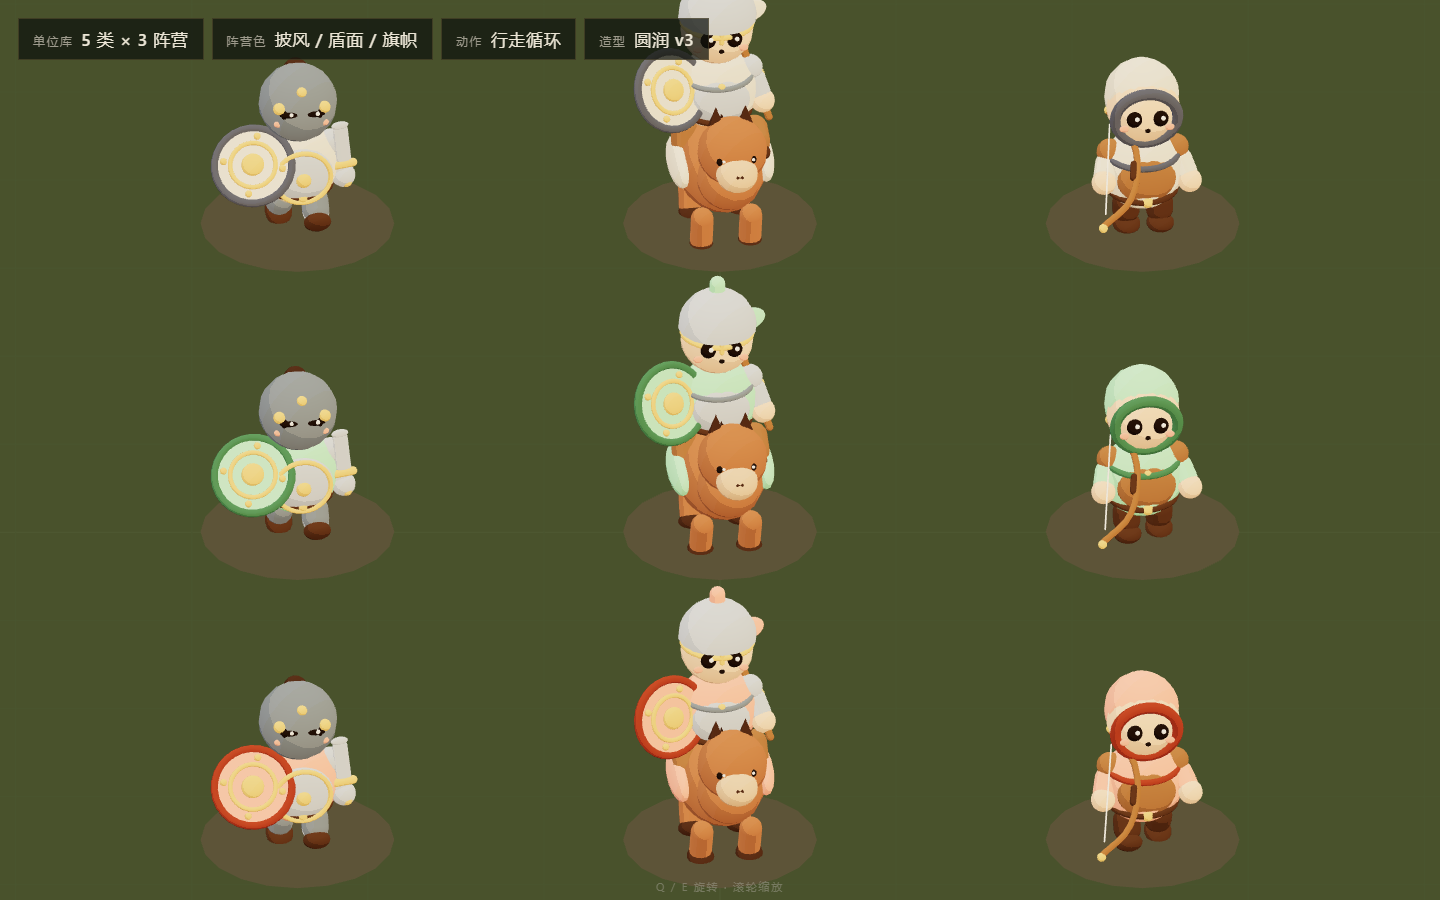
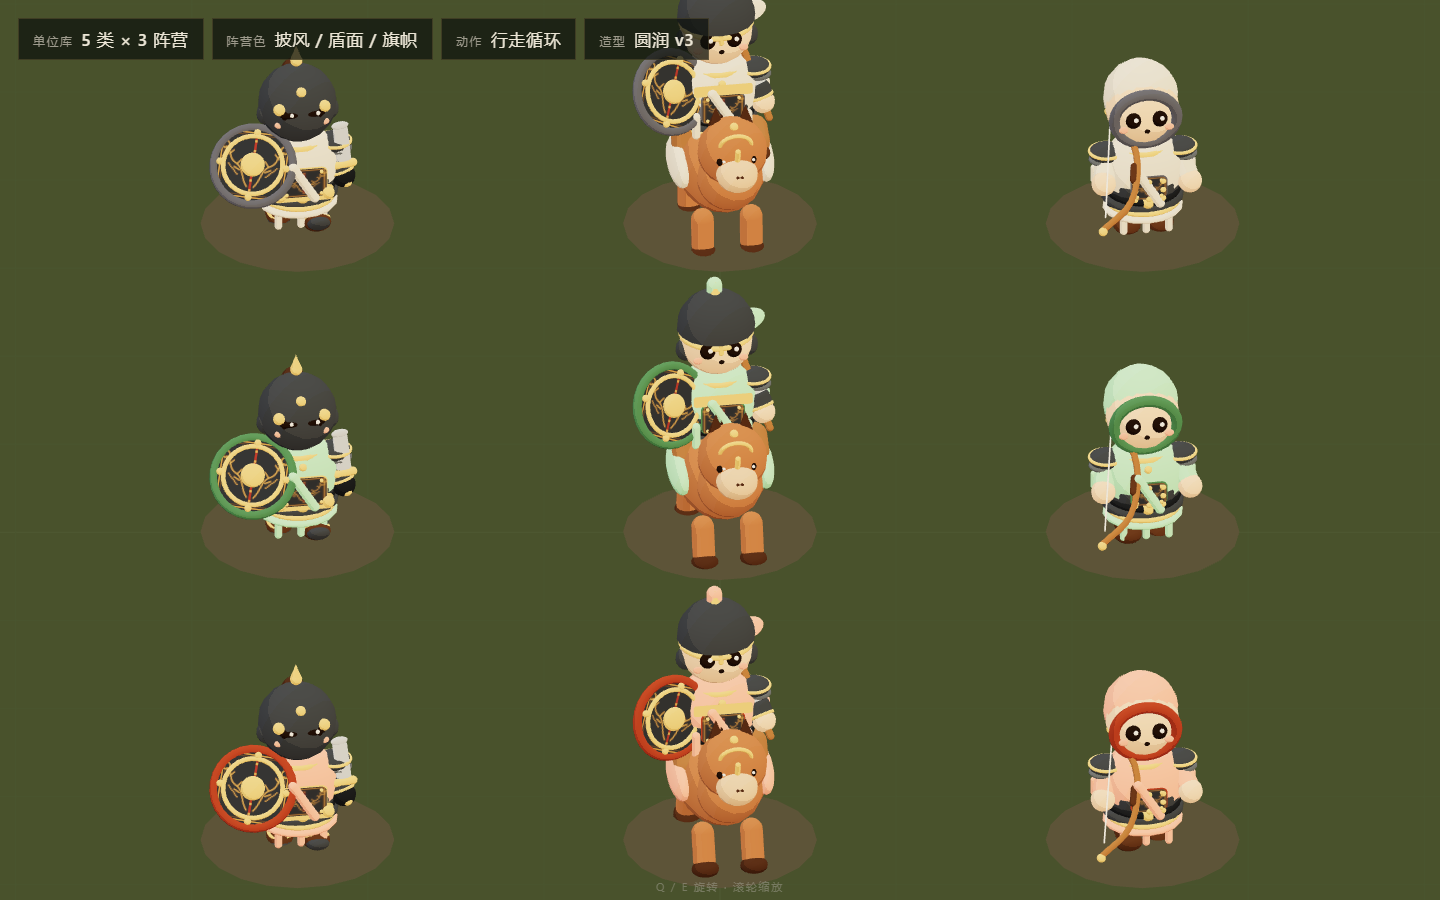
单位增加黑铁金纹铠甲

diff --git a/apps/client/src/game/unit-models.ts b/apps/client/src/game/unit-models.ts
@@ -15,11 +15,11 @@ export const UNIT_NAMES: Record<UnitKind, string> = {
 };
 
 export const UNIT_DESCRIPTIONS: Record<UnitKind, string> = {
-  infantry: "单刀 · 皮甲",
+  infantry: "单刀 · 札甲",
   shield: "重甲 · 大盾",
   cavalry: "长枪 · 战马",
-  archer: "弓箭 · 兜帽",
-  elite: "轻甲 · 羽饰",
+  archer: "弓箭 · 轻甲",
+  elite: "精甲 · 羽饰",
 };
 
 const GRADIENT = (() => {
@@ -55,6 +55,82 @@ const HORSE_DARK = paint(0x4c3323);
 const WHITE = paint(0xf6efdf);
 const INK = paint(0x2a1e17);
 const BLUSH = paint(0xeea08b);
+const ARMOR = paint(0x3f454d);
+const ARMOR_EDGE = paint(0x24282e);
+const ARMOR_LIGHT = paint(0x59616a);
+
+let ARMOR_MAP: THREE.CanvasTexture | null = null;
+
+function armorMap(): THREE.CanvasTexture {
+  if (ARMOR_MAP) return ARMOR_MAP;
+  const canvas = document.createElement("canvas");
+  canvas.width = 256;
+  canvas.height = 256;
+  const context = canvas.getContext("2d");
+  if (context) {
+    context.fillStyle = "#343941";
+    context.fillRect(0, 0, 256, 256);
+    context.strokeStyle = "#b3883f";
+    context.lineWidth = 4;
+    context.strokeRect(10, 10, 236, 236);
+    context.strokeStyle = "#7b5a24";
+    context.lineWidth = 1.5;
+    context.strokeRect(18, 18, 220, 220);
+    context.strokeStyle = "#c39a4b";
+    context.fillStyle = "#c39a4b";
+    context.lineCap = "round";
+    for (const side of [-1, 1]) {
+      context.save();
+      context.translate(128, 0);
+      context.scale(side, 1);
+      context.lineWidth = 3.4;
+      context.beginPath();
+      context.moveTo(12, 208);
+      context.bezierCurveTo(38, 176, 30, 142, 62, 126);
+      context.bezierCurveTo(92, 112, 78, 82, 104, 70);
+      context.stroke();
+      context.beginPath();
+      context.arc(106, 62, 13, 0, Math.PI * 2);
+      context.stroke();
+      context.beginPath();
+      context.moveTo(112, 50);
+      context.lineTo(124, 38);
+      context.moveTo(118, 48);
+      context.lineTo(132, 48);
+      context.moveTo(110, 50);
+      context.lineTo(104, 34);
+      context.stroke();
+      context.beginPath();
+      context.moveTo(56, 128);
+      context.lineTo(42, 110);
+      context.moveTo(66, 140);
+      context.lineTo(46, 150);
+      context.moveTo(88, 96);
+      context.lineTo(74, 80);
+      context.stroke();
+      for (let index = 0; index < 8; index += 1) {
+        context.beginPath();
+        context.arc(52 + index * 5, 166 - index * 5, 2.2, 0, Math.PI * 2);
+        context.fill();
+      }
+      context.restore();
+    }
+    context.fillStyle = "#8e3a32";
+    context.fillRect(124, 30, 8, 196);
+    context.fillStyle = "#c39a4b";
+    for (const y of [40, 76, 112, 148, 184, 220]) {
+      context.beginPath();
+      context.arc(128, y, 4, 0, Math.PI * 2);
+      context.fill();
+    }
+  }
+  const texture = new THREE.CanvasTexture(canvas);
+  texture.colorSpace = THREE.SRGBColorSpace;
+  ARMOR_MAP = texture;
+  return texture;
+}
+
+const ARMOR_PLATE = new THREE.MeshToonMaterial({ map: armorMap(), gradientMap: GRADIENT });
 
 const HIP_Y = 0.19;
 const SHOULDER_Y = 0.25;
@@ -169,41 +245,104 @@ function roundedPanel(
   builder.add(geometry, material, new THREE.Vector3(x, y, z));
 }
 
+function texturedPanel(
+  builder: ModelBuilder,
+  width: number,
+  height: number,
+  radius: number,
+  material: THREE.Material,
+  x: number,
+  y: number,
+  z: number,
+): void {
+  const shape = new THREE.Shape();
+  const w = width / 2;
+  const h = height / 2;
+  shape.moveTo(-w + radius, -h);
+  shape.lineTo(w - radius, -h);
+  shape.quadraticCurveTo(w, -h, w, -h + radius);
+  shape.lineTo(w, h - radius);
+  shape.quadraticCurveTo(w, h, w - radius, h);
+  shape.lineTo(-w + radius, h);
+  shape.quadraticCurveTo(-w, h, -w, h - radius);
+  shape.lineTo(-w, -h + radius);
+  shape.quadraticCurveTo(-w, -h, -w + radius, -h);
+  shape.closePath();
+  const geometry = new THREE.ShapeGeometry(shape, 16);
+  geometry.computeBoundingBox();
+  const box = geometry.boundingBox;
+  const uv = geometry.attributes.uv;
+  const position = geometry.attributes.position;
+  if (box && uv) {
+    for (let index = 0; index < uv.count; index += 1) {
+      uv.setXY(
+        index,
+        (position.getX(index) - box.min.x) / (box.max.x - box.min.x),
+        (position.getY(index) - box.min.y) / (box.max.y - box.min.y),
+      );
+    }
+  }
+  builder.add(geometry, material, new THREE.Vector3(x, y, z));
+}
+
 function makeTorso(kind: UnitKind, palette: TeamPalette, variant: number): THREE.Group {
   const team = paintTeam(palette);
   const trim = paintTrim(palette);
-  const armor = kind === "shield" || kind === "cavalry" ? STEEL : kind === "elite" ? DARK_STEEL : LEATHER;
   return part((b) => {
     ball(b, 0.22, 1.08, 1.12, 0.92, team, 0, 0.17, 0);
-    ball(b, 0.17, 1.0, 0.85, 0.42, armor, 0, 0.17, 0.14);
-    torus(b, 0.19, 0.018, DARK_LEATHER, 0, 0.045, 0);
-    ball(b, 0.035, 1, 1, 1, GOLD, 0, 0.045, 0.18);
-    for (const x of [-0.19, 0.19]) ball(b, 0.075, 1, 1, 1, armor, x, 0.29, 0);
-    ball(b, 0.1, 0.95, 1.1, 0.18, team, 0, 0.15, 0.18);
+    ball(b, 0.21, 1.02, 1.0, 0.88, ARMOR, 0, 0.12, 0.02);
+
+    const plateW = kind === "archer" ? 0.2 : kind === "shield" ? 0.26 : 0.24;
+    const plateH = kind === "archer" ? 0.14 : 0.18;
+    const plateEdge = kind === "elite" || kind === "shield" ? GOLD : trim;
+    texturedPanel(b, plateW + 0.014, plateH + 0.008, 0.04, plateEdge, 0, 0.17, 0.228);
+    texturedPanel(b, plateW, plateH, 0.035, ARMOR_PLATE, 0, 0.17, 0.238);
+    for (const x of [-plateW / 2 + 0.03, plateW / 2 - 0.03]) {
+      ball(b, 0.011, 1, 1, 1, GOLD, x, 0.17 + plateH / 2 - 0.02, 0.243);
+      ball(b, 0.011, 1, 1, 1, GOLD, x, 0.17 - plateH / 2 + 0.02, 0.243);
+    }
+    torus(b, 0.135, 0.02, GOLD, 0, 0.33, 0, Math.PI / 2, 0, 0);
+
+    torus(b, 0.2, 0.022, ARMOR_EDGE, 0, 0.055, 0);
+    ball(b, 0.04, 1, 1, 1, GOLD, 0, 0.055, 0.19);
+
+    ball(b, 0.215, 1.1, 0.32, 0.95, ARMOR, 0, 0.0, 0);
+    torus(b, 0.205, 0.014, GOLD, 0, -0.02, 0);
+    ball(b, 0.22, 1.05, 0.22, 0.95, team, 0, -0.07, 0);
+    for (const x of [-0.13, 0, 0.13]) capsule(b, 0.022, 0.08, team, x, -0.12, 0.13);
+
+    for (const side of [-1, 1]) {
+      ball(b, 0.105, 0.95, 0.5, 0.9, ARMOR, side * 0.21, 0.29, 0);
+      ball(b, 0.085, 0.92, 0.32, 0.9, ARMOR_LIGHT, side * 0.235, 0.255, 0.01);
+      torus(b, 0.095, 0.01, GOLD, side * 0.21, 0.3, 0, Math.PI / 2, 0, 0);
+      for (const offset of [-0.035, 0, 0.035]) {
+        capsule(b, 0.018, 0.08, team, side * 0.25 + offset, 0.17, 0.02);
+      }
+    }
+
+    capsule(b, 0.028, 0.24, team, 0, 0.17, 0.235, 0, 0, 0.55);
 
     if (kind === "shield") {
-      ball(b, 0.18, 1, 0.9, 0.4, STEEL, 0, 0.18, 0.16);
-      torus(b, 0.16, 0.014, GOLD, 0, 0.18, 0.2, 0, 0, 0);
-      ball(b, 0.045, 1, 1, 1, GOLD, 0, 0.18, 0.22);
+      texturedPanel(b, 0.34, 0.1, 0.03, GOLD, 0, 0.1, 0.235);
+      for (const x of [-0.14, 0.14]) ball(b, 0.035, 1, 1, 1, GOLD, x, 0.1, 0.245);
     } else if (kind === "elite") {
-      ball(b, 0.19, 1, 0.9, 0.35, DARK_STEEL, 0, 0.18, 0.15);
-      for (let row = 0; row < 2; row += 1) {
-        for (let column = 0; column < 4; column += 1) {
-          ball(b, 0.018, 1, 1, 1, GOLD, -0.075 + column * 0.05, 0.15 + row * 0.05, 0.2);
+      texturedPanel(b, 0.34, 0.06, 0.02, GOLD, 0, 0.29, 0.235);
+      ball(b, 0.19, 0.95, 1.05, 0.22, team, 0, 0.13, -0.19);
+      torus(b, 0.18, 0.012, GOLD, 0, 0.3, -0.19, 0, 0, 0);
+    } else if (kind === "archer") {
+      for (let row = 0; row < 3; row += 1) {
+        for (let column = 0; column < 3; column += 1) {
+          ball(b, 0.018, 1, 1, 1, GOLD, -0.08 + column * 0.08, 0.1 + row * 0.055, 0.235);
         }
       }
-      torus(b, 0.2, 0.015, GOLD, 0, 0.27, 0, Math.PI / 2, 0, 0.1);
-      ball(b, 0.18, 0.95, 1.0, 0.22, team, 0, 0.14, -0.17);
-    } else if (kind === "archer") {
-      torus(b, 0.2, 0.018, trim, 0, 0.27, 0, Math.PI / 2, 0, 0.15);
       ball(b, 0.19, 0.9, 1.05, 0.2, team, 0, 0.1, -0.16);
     } else if (kind === "cavalry") {
-      torus(b, 0.2, 0.015, DARK_STEEL, 0, 0.27, 0);
+      texturedPanel(b, 0.34, 0.07, 0.02, GOLD, 0, 0.29, 0.235);
+      for (const x of [-0.15, 0.15]) capsule(b, 0.024, 0.12, team, x, 0.05, 0.2);
     } else {
-      ball(b, 0.17, 1, 0.85, 0.35, LEATHER, 0, 0.18, 0.16);
-      for (const x of [-0.09, 0, 0.09]) ball(b, 0.018, 1, 1, 1, GOLD, x, 0.12, 0.21);
+      for (const x of [-0.15, 0.15]) ball(b, 0.025, 1, 1, 1, GOLD, x, 0.11, 0.235);
     }
-    if (variant % 2 === 0) ball(b, 0.022, 1, 1, 1, GOLD, 0, 0.28, 0.19);
+    if (variant % 2 === 0) ball(b, 0.022, 1, 1, 1, GOLD, 0, 0.31, 0.2);
   });
 }
 
@@ -220,11 +359,19 @@ function makeHead(kind: UnitKind, palette: TeamPalette, variant: number): THREE.
     }
     ball(b, 0.016, 1, 0.8, 0.5, INK, 0, 0.075, 0.205);
 
+    if (kind !== "archer") {
+      ball(b, 0.17, 1.05, 0.42, 0.8, ARMOR, 0, 0.03, -0.09);
+      ball(b, 0.155, 1.0, 0.32, 0.75, ARMOR_EDGE, 0, -0.03, -0.12);
+      for (const x of [-0.18, 0.18]) ball(b, 0.075, 0.75, 0.9, 0.75, ARMOR, x, 0.07, 0.015);
+      ball(b, 0.035, 1, 1, 1, GOLD, 0, 0.39, 0);
+      b.add(new THREE.ConeGeometry(0.032, 0.085, 10), GOLD, new THREE.Vector3(0, 0.445, 0));
+    }
+
     if (kind === "shield") {
-      ball(b, 0.225, 1, 1, 1, DARK_STEEL, 0, 0.12, 0.005);
+      ball(b, 0.225, 1, 1, 1, ARMOR, 0, 0.12, 0.005);
       ball(b, 0.13, 1.0, 0.2, 0.12, INK, 0, 0.15, 0.205);
       for (const x of [-0.13, 0.13]) ball(b, 0.035, 1, 1, 1, GOLD, x, 0.18, 0.18);
-      torus(b, 0.2, 0.018, STEEL, 0, 0.13, 0, Math.PI / 2, 0, 0);
+      torus(b, 0.2, 0.018, GOLD, 0, 0.13, 0, Math.PI / 2, 0, 0);
       ball(b, 0.03, 1, 1, 1, GOLD, 0, 0.27, 0.16);
     } else if (kind === "archer") {
       ball(b, 0.215, 1, 1, 1, team, 0, 0.16, -0.06);
@@ -234,11 +381,11 @@ function makeHead(kind: UnitKind, palette: TeamPalette, variant: number): THREE.
     } else if (kind === "elite") {
       b.add(
         new THREE.SphereGeometry(0.225, 16, 8, 0, Math.PI * 2, 0, Math.PI / 2),
-        STEEL,
+        ARMOR,
         new THREE.Vector3(0, 0.2, 0),
       );
       torus(b, 0.21, 0.02, GOLD, 0, 0.19, 0, Math.PI / 2, 0, 0);
-      for (const x of [-0.19, 0.19]) ball(b, 0.05, 1, 1, 1, STEEL, x, 0.1, 0.02);
+      for (const x of [-0.19, 0.19]) ball(b, 0.05, 1, 1, 1, ARMOR, x, 0.1, 0.02);
       const plume = new THREE.CatmullRomCurve3([
         new THREE.Vector3(0.13, 0.3, 0),
         new THREE.Vector3(0.26, 0.42, -0.02),
@@ -249,7 +396,7 @@ function makeHead(kind: UnitKind, palette: TeamPalette, variant: number): THREE.
     } else if (kind === "cavalry") {
       b.add(
         new THREE.SphereGeometry(0.225, 16, 8, 0, Math.PI * 2, 0, Math.PI / 2),
-        STEEL,
+        ARMOR,
         new THREE.Vector3(0, 0.19, 0),
       );
       capsule(b, 0.045, 0.1, team, 0, 0.4, -0.03, 0, 0, 0);
@@ -258,10 +405,10 @@ function makeHead(kind: UnitKind, palette: TeamPalette, variant: number): THREE.
     } else {
       b.add(
         new THREE.SphereGeometry(0.225, 16, 8, 0, Math.PI * 2, 0, Math.PI / 2),
-        STEEL,
+        ARMOR,
         new THREE.Vector3(0, 0.19, 0),
       );
-      torus(b, 0.21, 0.018, DARK_STEEL, 0, 0.18, 0, Math.PI / 2, 0, 0);
+      torus(b, 0.21, 0.018, GOLD, 0, 0.18, 0, Math.PI / 2, 0, 0);
       capsule(b, 0.014, 0.06, STEEL, 0, 0.12, 0.21);
       if (variant % 2 === 0) capsule(b, 0.025, 0.09, team, 0, 0.37, -0.02);
     }
@@ -273,16 +420,25 @@ function makeArm(kind: UnitKind, palette: TeamPalette): THREE.Group {
   const armor = kind === "shield" || kind === "cavalry" ? STEEL : kind === "elite" ? DARK_STEEL : LEATHER;
   return part((b) => {
     capsule(b, 0.065, 0.08, kind === "archer" ? team : armor, 0, -0.08, 0);
-    ball(b, 0.07, 1, 1, 1, kind === "shield" || kind === "elite" ? STEEL : SKIN, 0, -0.17, 0.01);
+    if (kind !== "archer") {
+      capsule(b, 0.072, 0.06, ARMOR, 0, -0.12, 0);
+      torus(b, 0.065, 0.012, GOLD, 0, -0.14, 0, Math.PI / 2, 0, 0);
+    }
+    ball(b, 0.07, 1, 1, 1, kind === "shield" || kind === "elite" ? ARMOR_EDGE : SKIN, 0, -0.17, 0.01);
     if (kind === "shield" || kind === "cavalry") torus(b, 0.055, 0.012, GOLD, 0, -0.02, 0, 0, 0, 0);
   });
 }
 
 function makeLeg(kind: UnitKind): THREE.Group {
   return part((b) => {
-    capsule(b, 0.078, 0.05, kind === "shield" || kind === "elite" ? DARK_STEEL : DARK_LEATHER, 0, -0.075, 0);
+    capsule(b, 0.078, 0.05, kind === "shield" || kind === "elite" ? ARMOR : DARK_LEATHER, 0, -0.075, 0);
     ball(b, 0.075, 1.05, 0.7, 1.25, DARK_LEATHER, 0, -0.175, 0.025);
-    if (kind === "shield" || kind === "elite") torus(b, 0.065, 0.012, STEEL, 0, -0.11, 0, 0, 0, 0);
+    if (kind === "shield" || kind === "elite" || kind === "cavalry") {
+      ball(b, 0.07, 0.95, 0.55, 1.1, ARMOR, 0, -0.19, 0.07);
+      torus(b, 0.066, 0.011, GOLD, 0, -0.15, 0.02);
+    } else {
+      torus(b, 0.066, 0.01, DARK_LEATHER, 0, -0.11, 0, 0, 0, 0);
+    }
   });
 }
 
@@ -299,16 +455,16 @@ function sword(): THREE.Group {
 }
 
 function roundShield(palette: TeamPalette): THREE.Group {
-  const team = paintTeam(palette);
   const trim = paintTrim(palette);
   return part((b) => {
     const disc = new THREE.CylinderGeometry(0.225, 0.225, 0.045, 32);
-    b.add(disc, team, new THREE.Vector3(0, 0, 0), new THREE.Quaternion().setFromEuler(new THREE.Euler(Math.PI / 2, 0, 0)));
-    torus(b, 0.22, 0.023, trim, 0, 0, 0.01, 0, 0, 0);
-    torus(b, 0.13, 0.013, GOLD, 0, 0, 0.03, 0, 0, 0);
-    ball(b, 0.065, 1, 1, 0.55, GOLD, 0, 0, 0.04);
+    b.add(disc, ARMOR, new THREE.Vector3(0, 0, 0), new THREE.Quaternion().setFromEuler(new THREE.Euler(Math.PI / 2, 0, 0)));
+    b.add(new THREE.CircleGeometry(0.205, 32), ARMOR_PLATE, new THREE.Vector3(0, 0, 0.03));
+    torus(b, 0.225, 0.026, trim, 0, 0, 0.01, 0, 0, 0);
+    torus(b, 0.17, 0.014, GOLD, 0, 0, 0.035, 0, 0, 0);
+    ball(b, 0.07, 1, 1, 0.55, GOLD, 0, 0, 0.045);
     for (const angle of [0, Math.PI / 2, Math.PI, (3 * Math.PI) / 2]) {
-      ball(b, 0.02, 1, 1, 1, GOLD, Math.cos(angle) * 0.17, Math.sin(angle) * 0.17, 0.03);
+      ball(b, 0.021, 1, 1, 1, GOLD, Math.cos(angle) * 0.19, Math.sin(angle) * 0.19, 0.035);
     }
   });
 }
@@ -448,6 +604,10 @@ function makeCavalry(palette: TeamPalette, variant: number): UnitRig {
     ball(b, 0.2, 1.0, 1.0, 0.95, HORSE, 0, 0.74, 0.44);
     ball(b, 0.12, 1.0, 0.85, 1.1, HORSE_LIGHT, 0, 0.68, 0.6);
     ball(b, 0.05, 1, 0.8, 0.7, HORSE_DARK, 0, 0.7, 0.69);
+    torus(b, 0.09, 0.012, GOLD, 0, 0.84, 0.56, 0.4, 0, 0);
+    ball(b, 0.025, 1, 1, 1, GOLD, 0, 0.93, 0.5);
+    capsule(b, 0.016, 0.1, GOLD, 0, 0.8, 0.63, 0.3, 0, 0);
+    for (const x of [-0.16, 0.16]) capsule(b, 0.02, 0.08, paintTeam(palette), x, 0.48, -0.02);
     for (const x of [-0.085, 0.085]) {
       b.add(new THREE.ConeGeometry(0.045, 0.12, 10), HORSE_DARK, new THREE.Vector3(x, 0.94, 0.38));
       ball(b, 0.03, 1, 1, 0.6, INK, x, 0.76, 0.59);
@@ -469,8 +629,9 @@ function makeCavalry(palette: TeamPalette, variant: number): UnitRig {
     ball(b, 0.18, 0.35, 0.65, 1.3, team, -0.24, 0.44, 0);
     ball(b, 0.18, 0.35, 0.65, 1.3, team, 0.24, 0.44, 0);
     ball(b, 0.16, 0.95, 0.28, 1.15, team, 0, 0.56, 0);
-    ball(b, 0.13, 0.9, 0.35, 1.0, DARK_LEATHER, 0, 0.57, 0);
+    ball(b, 0.1, 0.9, 0.3, 0.9, DARK_LEATHER, 0, 0.57, 0);
     torus(b, 0.15, 0.014, GOLD, 0, 0.58, 0, Math.PI / 2, 0, 0);
+    torus(b, 0.19, 0.012, GOLD, 0, 0.55, 0, Math.PI / 2, 0, 0);
   });
   mount.add(horse);
 

diff --git a/apps/client/src/game/unit-gallery.ts b/apps/client/src/game/unit-gallery.ts
@@ -25,7 +25,7 @@ export function runUnitGallery(host: HTMLElement): void {
     '    <div class="chip">单位库 <b>5 类 × 3 阵营</b></div>',
     '    <div class="chip">阵营色 <b>披风 / 盾面 / 旗帜</b></div>',
     '    <div class="chip">动作 <b>行走循环</b></div>',
-    '    <div class="chip">造型 <b>圆润 v3</b></div>',
+    '    <div class="chip">造型 <b>圆润 v4</b></div>',
     '  </div>',
     '  <div class="hint">Q / E 旋转 · 滚轮缩放</div>',
     '</div>',
